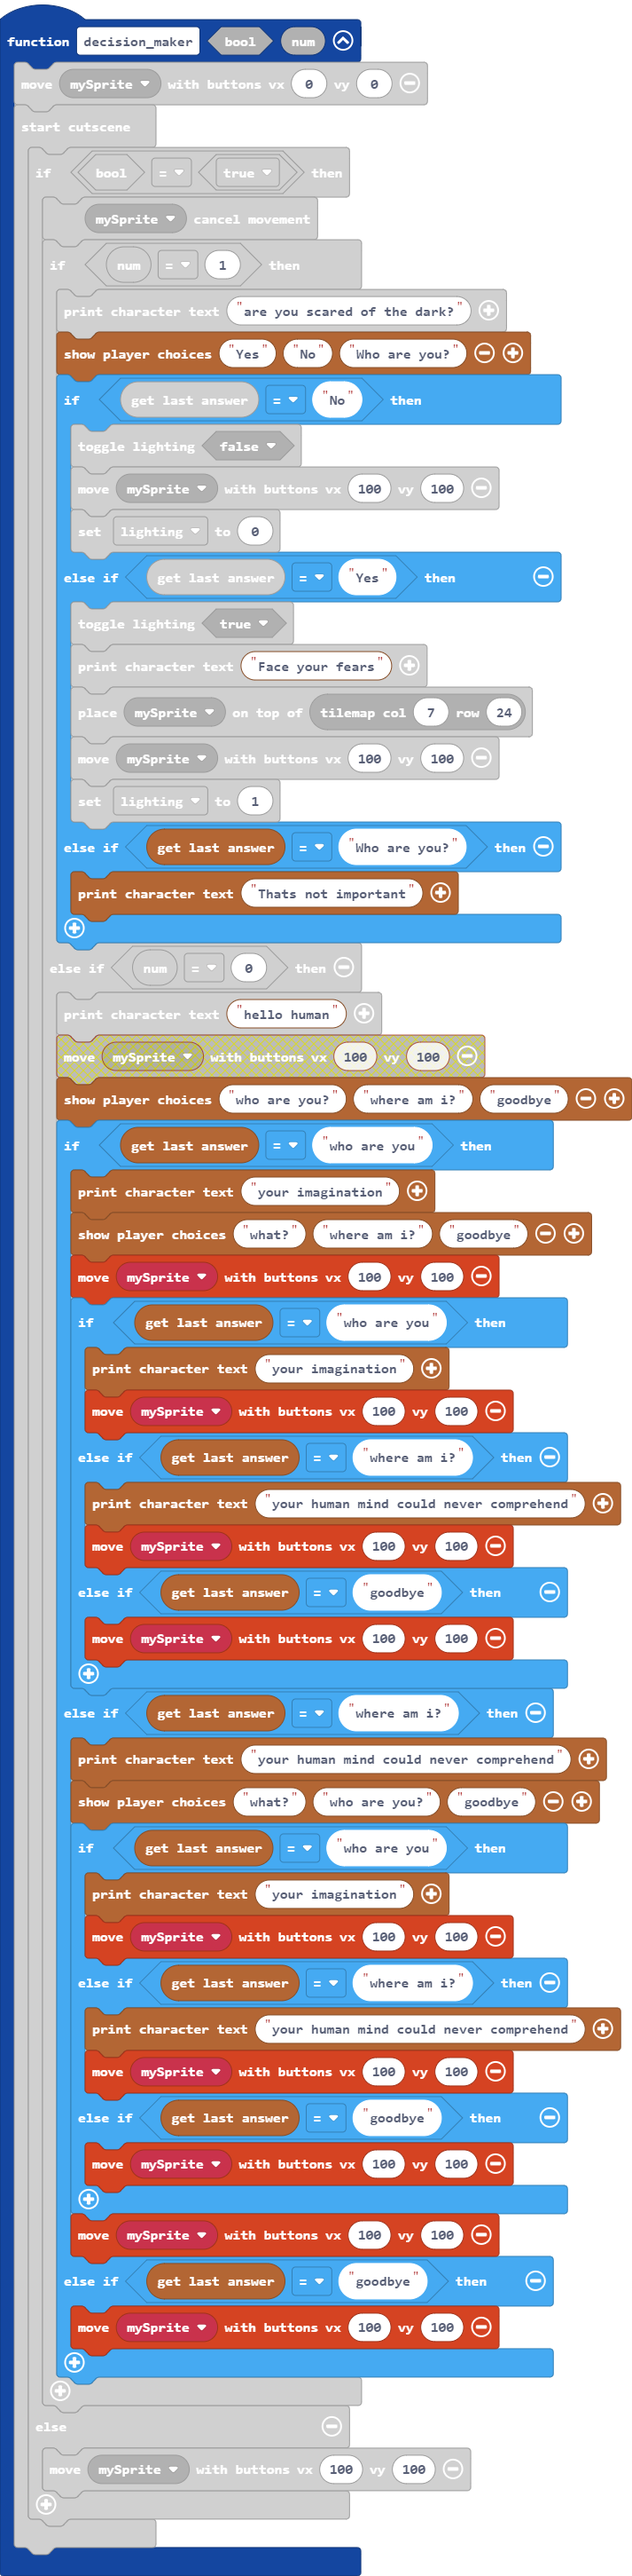
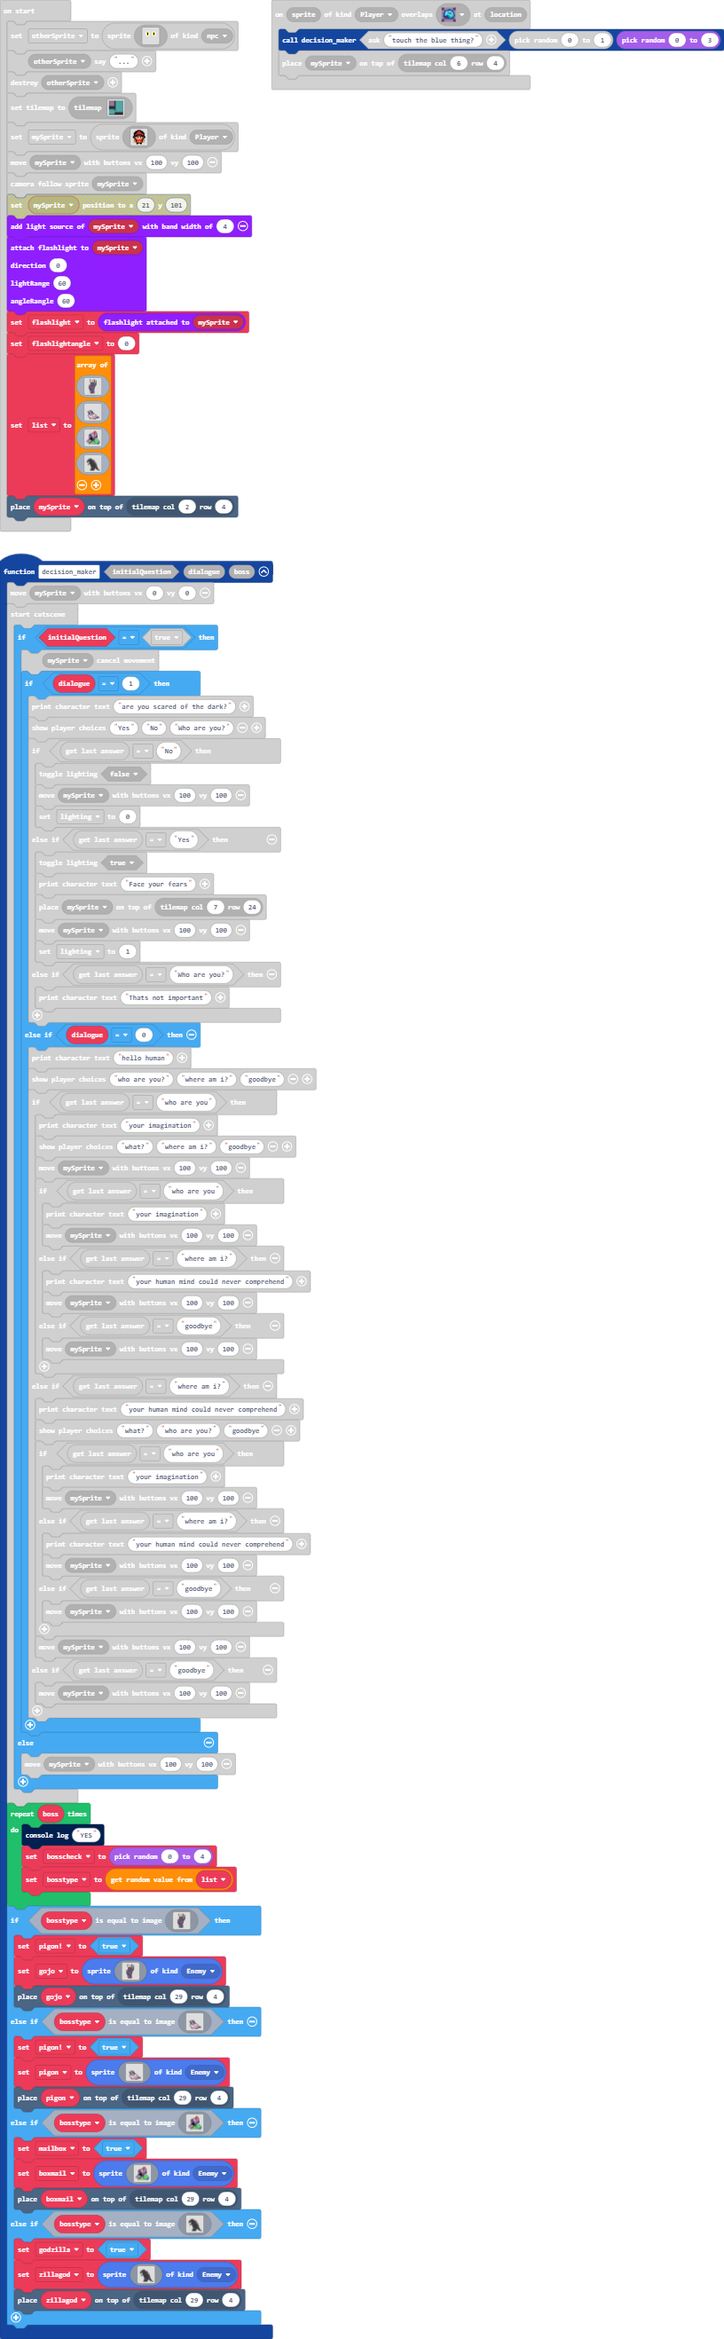
added loop and boos spawns

diff --git a/images.g.ts b/images.g.ts
@@ -3,24 +3,221 @@ namespace myImages {
 
     helpers._registerFactory("image", function(name: string) {
         switch(helpers.stringTrim(name)) {
+            case "image2":
+            case "pigon":return img`
+................................
+................................
+................................
+................................
+................................
+................................
+................................
+................................
+................................
+................................
+................................
+................................
+........ccccc...................
+......ccbbbbbc..................
+....ccddbbbbbbf.................
+...cbbbddbbffbf.................
+....ffffdbbffbff................
+.......fbbbbbbbf................
+.......fbbbbbbbff...............
+......ffbbbbbbbbfff.............
+......f6bbbbbb663ddcc...........
+.....cc66bbbb666dddddc..........
+.....cd36666663dddddddc.........
+.....cddd3333dbddddddbcc........
+.....cddddddddbdddddbbddc.......
+.....cddddddddbbdddbbdddbc......
+......cddddddddbbdbbddddbbccc...
+......ccddddddddbbbbcccccbbbcc..
+.......ccddddddddddddddbccffff..
+........cccbddccbddddbbfff......
+........c333bb333cbbfff.........
+........c33cc33cc3fff...........
+`;
+            case "image3":
+            case "box of mail":return img`
+................................
+..................e2222.........
+..................e2222.........
+.................ce2eee.........
+...............ccbe2bbcc........
+.............ccbbbe2bbbcc.......
+...........ccbbbbbe2bbbbc.......
+.........ffbbddbbbe2bbbbbc......
+........ffcccbddbbccbbbbbc......
+.......ffbbbddbddbcddbbbbc......
+.......fbccccddbdbcddbbbbc......
+.......fbcccccdbddccbbbbcc......
+.......fbcccccbdbdbbbbbccf......
+.......cbccccccdcdbbbccccf......
+.......cbccccccbcdbccccbbf......
+.......cbccccffbcbcccbbbbf......
+.......cbccffffbcbcbbbbff.......
+.......cbffffffbcbbbbff.........
+......ccfffffffbcbbff...........
+.....cbbbcfffffbcffc..6..66.....
+....cbbbbbbcfffffcbc.66.6766....
+...cbbbbbbbbdcff6cbc667667666...
+..cbbbbbbbbddff77cbc7777777776..
+.cbbbbbbbbddff777cbc77777777776.
+.cdbbbbbbddff7766cbc6677777776c.
+..cdbbbbddff777766666777776766c.
+...cdddddff777777777777677666cc.
+....ccccff777677767776766766ccb.
+......677777667776676676666ccbb.
+......66666bdb66bdbb6666d6ccbb..
+......bddddddddddddbddddddbbb...
+......bdddddddddddddddddddbb....
+`;
+            case "image4":
+            case "suspiciously close to Godzilla":return img`
+....................................................................................................
+....................................................................................................
+....................................................................................................
+....................................................................................................
+....................................................................................................
+....................................................................................................
+....................................................................................................
+....................................................................................................
+....................................................................................................
+....................................................................................................
+....................................................................................................
+....................................................................................................
+....................................................................................................
+....................................................................................................
+....................................................................................................
+...........................ffffffff.................................................................
+........................ffffffffffffffff............................................................
+.....................ffffffffffffffffffff...........................................................
+...................ffffffffffffffffffffffff.........................................................
+..................fffffbbbbbbffffffffffffff.........................................................
+..................fffbbffffffbffffffffffffff......f.................................................
+.................ffffbfffffffffffffffffbbfff.....ff.......f.........................................
+.................ffffbfffffffffffffffffffbbbf....f3f......f.........................................
+................fffffffffffffffffffffffffffbf....f3f......f.........................................
+....e..........fffffffffffffffffffffffffffffbf..f333f....ff.........................................
+....ee........ffffffffffffffffffffffffffffffbffff333f...fff.........................................
+.....e.......fffffffff9fffffffffffffffffffffbbffff333f..f33f........................................
+.....ee......ffffffffffffffffffffffffffffffffbfffffff.ff333f........................................
+......eeeeeeefffffffffffffffffffffffffffffffffffffffff.f3333f.......................................
+..........ffefeeeeeeefffffffffffffffffffffffffffffffffff3333f.......................................
+.........ffffeeffffffeeefeeffffffffffffffffffffffffffffff333f.......................................
+........fffffffffffffffeefffffffffffffffffffffffffffffffff33f.......................................
+.......ffffffffbfffffffffffffffffffffffffffffffffffffbffff33f.......................................
+.......fffffffbbfffffffffffffffffffffffffffffffffffffbfffff3f.......................................
+.......fffffbbffffffffffffffffffffffffffffffffffffffffbffffff.....ff................................
+.........ffbfffffffffffffffffffffffffffffffffffffffffffffffff.....ff................................
+.........fbffffffffff...fffffffffffffffffffffffffffffffffffff....f.f................................
+.........bffffffff......fffffffffffffffffffffbfffffffffffffff...f3f.................................
+.........ffffffff.......ffffffffffffffffffffffbbffffffffffff3f.f33f.................................
+.........fffffff........ffffffffffffffffffffffffbbffffffffff3fff33f.................................
+........fffffff.........ffffffffffffffffffffffffffbbffffffbffff333f.................................
+.......fffffff..........ffffffffffffffffffffffffffffbbffffbffff333f.................................
+......ffffff............ffffffffffffffffffffffffffffffbbffffffff33f....f............................
+......ffff..............fffffffffffffffffffffffffffffffbfffffffff3f...ff............................
+........................ffffffffffffffffffffffffffffffffbffffffff3f...f3f...........................
+........................fffffffffffffffffffffffffffffffffbbfffffff3f.f33f...........................
+.......................ffffffffffffffffffffffffffffffffffffbfbffffff.f33f...........................
+.......................ffffffffffffffffffffffffffffffffffffbffbffffff333f...........................
+......................ffffffffffffffffffffffffffffffffffffffbfbffffff333f...........................
+....................fbfffffffbfffffffffffffffffffffffffffffffbfffffff333f...........................
+...................fbbfffffffbfffffffffffffffffffffffffffffffbfffffff333f...........................
+..................ffbffffffffbbffffffffffffffffffffffffffffffbffffffff33f...........................
+................ffbbfffffffffffbffffffffffffffffffffffffffffffbffffffff3f...........................
+...............fffbfffffffffffffbfffffffffffffffffffffffffffffbffffffff3f..f........................
+..............ffffffff.....ffffffbbffffffffffffffffffffffffffffbfffffffff.ff........................
+..............ffffff........fffffffbffffffffffffffffffffffffffffbfffffffffff........................
+..............ffffff.........fffffffbfffffffffffffffffffffffffffbfffffffffff........................
+.............ffffff...........ffffffbfffffffffffffffffffffffffffbffffffff33f........................
+.............ffffff...........fffffffbffffffffffffffffffffffffffbfffffffff3f........................
+..............ff...............ffffffbffffffffffffffffffffffffffbfffffffffff........................
+...............................fffffffbbfffffffffffffffffffffffffbffffffffff........................
+...............................fffffffffffffffffffffffffffffffffffbffffffff.f.......................
+................................fffffffffffffffffffffffffffffffffffbfffffffff.......................
+................................fffffffffffffffffffffffffffffffffffbffffffff........................
+.................................ffffffffffffffffffffffffffffffffffbfffffffff.......................
+.................................fffffffffffffffffffffffffffffffffffbffffffff.......................
+.................................fffffffffffffffffffffffffffffffffffbffffffff.......................
+..................................ffffffffffffffffffffffffffffffffffbfffffffff......................
+..................................fffffffffffffffffffffffffffffffffffbffffffff......................
+...................................ffffffffffffffffffffffffffffffffffbffffffff......................
+...................................fffffffffffffffffffffffffffffffffffbffffffff.....................
+...................................ffffffffffffffffffffffffffffffffffffbbffffff.....................
+....................................ffffffffffffffffffffffffffffffffffffbffffff.....................
+....................................ffffffffffffffffffffffffffffffffffffbfffffff....................
+....................................ffffffffffffffffffbffffffffffffffffffbffffff....................
+......................................fffffffffffffffbbffffffffffffffffffbffffff....................
+............................................fffffffffbffffffffffffffffffffbffffff...................
+...........................................fffffffffbffffffffffffffffffffffbfffff...................
+........................................ffffffffffbbffffffffffffffffffffffffbfffff..................
+......................................ffffffffffffbfffffffffffffffffffffffffbffffff.................
+.....................................fffffffffffbbffffffffffffffffffffffffffbffffff.................
+...................................fffffffffffbbffffffffffffffffffffffffffffffffffff................
+..................................ffffffffffffbfffffffffffffffffffffffffffffffffffff................
+..................................fffffffffffbfffffffffffffffffffffffffffffffffffffff...............
+..................................fffffffffffbfffffffffffffffff.....ffffffffffffffffff..............
+..................................ffffffffffbfffffffffffffffff.......fffffffffffffffff..............
+..................................ffffffffffbfffffffffffffffff........fffffffffffffffff.............
+...................................ffffffffbfffffffffffffffff...........fffffffffffffff.............
+....................................fffffffbfffffffffffffffff............fffffffffffffff............
+....................................fffffffbffffffffffffffff..............ffffffffffffff............
+...................................ffffffffbffffffffffffffff...............fffffbffffffff...........
+..................................fffffffffbffffffffffffffff................fffffbbfffffff..........
+.................................ffffffffffbffffffffffffffff.................ffffffbfffffff.........
+................................fffffffffffbfffffffffffffff....................fffffbbffffff........
+...............................ffffffffffffbfffffffffffffff......................fffffbffffff.......
+..............................fffffffffffffbfffffffffffffff.........................fffffffffff.....
+.............................fffffffffffffffffffffffffffff............................fffffffffff...
+.............................ffffffffffffffffffffffffffff................................ffffffffff.
+.............................ffffffffffffff.ffffffffffff.....................................ffff.ff
+.............................fffffffffffff..fffffffffff..........................................ff.
+`;
             case "image1":
-            case "gojo":return img`
-. f f 1 1 1 1 1 1 1 1 1 1 f f . 
-. f 1 1 1 1 1 1 1 1 1 1 1 1 f . 
-. . f f f f f f 1 1 f f f f . . 
-. . f d d d d d f f f d d f f . 
-. f d d d d d d d d d d 9 d f . 
-. f d d d 9 d d d d d d d d f . 
-. . f d d d d d d d d d d d f . 
-. . f d d d d d d d d d d d f . 
-. . . f d d f f f f f f d d f . 
-. . . f f f c c c c c f d f f . 
-. . . . f c c c c c c c f f . . 
-. . . . f f c c c c f f f . . . 
-. . . . f f f f f f f c f . . . 
-. . . . f c c c c c c c f . . . 
-. . . f f c c c c c c c f f . . 
-. . f f c c c c c c c c c f . . 
+            case "maybe gojo":return img`
+...ff1111111111ff.......
+...f111111111111f.......
+....ffffff11ffff........
+....fdddddfffddff..f....
+...fdddddddddd9df..fff..
+...fddd9ddddddddf.fddf..
+....fdddddddddddffdddf..
+....fdddddddddddffd.df..
+.....fddffffffddffd.df..
+.....fffbccccfdff.fddf..
+......fbccccccff..ffdf..
+......ffccccfff...ffcf..
+......fffffffcf..fbccf..
+......fcccccccf..fbccf..
+.....ffcccccccfffccccf..
+....ffcccccccccffccccf..
+..ffbbfccccccccffccff...
+..fbbcffcccccfffcccf....
+.ffbcccfffccffccccf.....
+.fbbcccccfcfccccccf.....
+.fbccccccffccccccf......
+.fbcfccccccccccccf......
+.fccfcccccccccccf.......
+.fccfcccccccccccf.......
+.fccffccccccccccf.......
+.fcccfccccccccccf.......
+.ffccfcccccccccff.......
+..ffcffccccccccf........
+...fccffccccccf.........
+...fcccffffcccf.........
+...ffffcccfffff.........
+....fbccccfccccf........
+....fbccccfccccf........
+....fbccccfccccf........
+....fbccccfccccf........
+....ffbcccfccccf........
+.....fbcccfccccf........
+.....fbcccfccccf........
+.....fbcccfccccf........
+.....fffffffffff........
 `;
         }
         return null;

diff --git a/main.ts b/main.ts
@@ -89,12 +89,12 @@ controller.B.onEvent(ControllerButtonEvent.Pressed, function () {
 controller.A.onEvent(ControllerButtonEvent.Pressed, function () {
 	
 })
-function decision_maker (bool: boolean, num: number) {
+function decision_maker (initialQuestion: boolean, dialogue: number, boss: number) {
     controller.moveSprite(mySprite, 0, 0)
     story.startCutscene(function () {
-        if (bool == true) {
+        if (initialQuestion == true) {
             story.cancelSpriteMovement(mySprite)
-            if (num == 1) {
+            if (dialogue == 1) {
                 story.printCharacterText("are you scared of the dark?")
                 story.showPlayerChoices("Yes", "No", "Who are you?")
                 if (story.getLastAnswer() == "No") {
@@ -110,7 +110,7 @@ function decision_maker (bool: boolean, num: number) {
                 } else if (story.getLastAnswer() == "Who are you?") {
                     story.printCharacterText("Thats not important")
                 }
-            } else if (num == 0) {
+            } else if (dialogue == 0) {
                 story.printCharacterText("hello human")
                 story.showPlayerChoices("who are you?", "where am i?", "goodbye")
                 if (story.getLastAnswer() == "who are you") {
@@ -147,6 +147,28 @@ function decision_maker (bool: boolean, num: number) {
             controller.moveSprite(mySprite, 100, 100)
         }
     })
+    for (let index = 0; index < boss; index++) {
+        console.log("YES")
+        bosscheck = randint(0, 4)
+        bosstype = list._pickRandom()
+    }
+    if (bosstype.equals(assets.image`maybe gojo`)) {
+        pigon = true
+        gojo = sprites.create(assets.image`maybe gojo`, SpriteKind.Enemy)
+        tiles.placeOnTile(gojo, tiles.getTileLocation(29, 4))
+    } else if (bosstype.equals(assets.image`pigon`)) {
+        pigon = true
+        pigon2 = sprites.create(assets.image`pigon`, SpriteKind.Enemy)
+        tiles.placeOnTile(pigon2, tiles.getTileLocation(29, 4))
+    } else if (bosstype.equals(assets.image`box of mail`)) {
+        mailbox = true
+        boxmail = sprites.create(assets.image`box of mail`, SpriteKind.Enemy)
+        tiles.placeOnTile(boxmail, tiles.getTileLocation(29, 4))
+    } else if (bosstype.equals(assets.image`suspiciously close to Godzilla`)) {
+        godzilla = true
+        zillagod = sprites.create(assets.image`suspiciously close to Godzilla`, SpriteKind.Enemy)
+        tiles.placeOnTile(zillagod, tiles.getTileLocation(29, 4))
+    }
 }
 controller.down.onEvent(ControllerButtonEvent.Released, function () {
     characterAnimations.setCharacterState(mySprite, characterAnimations.rule(Predicate.FacingDown, Predicate.NotMoving))
@@ -440,7 +462,7 @@ controller.right.onEvent(ControllerButtonEvent.Pressed, function () {
     }
 })
 scene.onOverlapTile(SpriteKind.Player, assets.tile`tile5`, function (sprite, location) {
-    decision_maker(game.ask("touch the blue thing?"), randint(0, 1))
+    decision_maker(game.ask("touch the blue thing?"), randint(0, 1), randint(0, 3))
     tiles.placeOnTile(mySprite, tiles.getTileLocation(6, 4))
 })
 controller.up.onEvent(ControllerButtonEvent.Released, function () {
@@ -567,7 +589,17 @@ controller.down.onEvent(ControllerButtonEvent.Pressed, function () {
         flashlight.direction = 90
     }
 })
+let zillagod: Sprite = null
+let godzilla = false
+let boxmail: Sprite = null
+let mailbox = false
+let pigon2: Sprite = null
+let gojo: Sprite = null
+let pigon = false
+let bosstype: Image = null
+let bosscheck = 0
 let lighting = 0
+let list: Image[] = []
 let flashlightangle = 0
 let flashlight: lightsource.FlashlightLightSource = null
 let mySprite: Sprite = null
@@ -612,7 +644,7 @@ mySprite = sprites.create(img`
     `, SpriteKind.Player)
 controller.moveSprite(mySprite, 100, 100)
 scene.cameraFollowSprite(mySprite)
-mySprite.setPosition(21, 101)
+tiles.placeOnTile(mySprite, tiles.getTileLocation(2, 4))
 multilights.addLightSource(mySprite, 4)
 multilights.addFlashLightSource(
 mySprite,
@@ -622,6 +654,12 @@ mySprite,
 )
 flashlight = multilights.flashlightSourceAttachedTo(mySprite)
 flashlightangle = 0
+list = [
+assets.image`maybe gojo`,
+assets.image`pigon`,
+assets.image`box of mail`,
+assets.image`suspiciously close to Godzilla`
+]
 game.onUpdateInterval(5000, function () {
 	
 })
